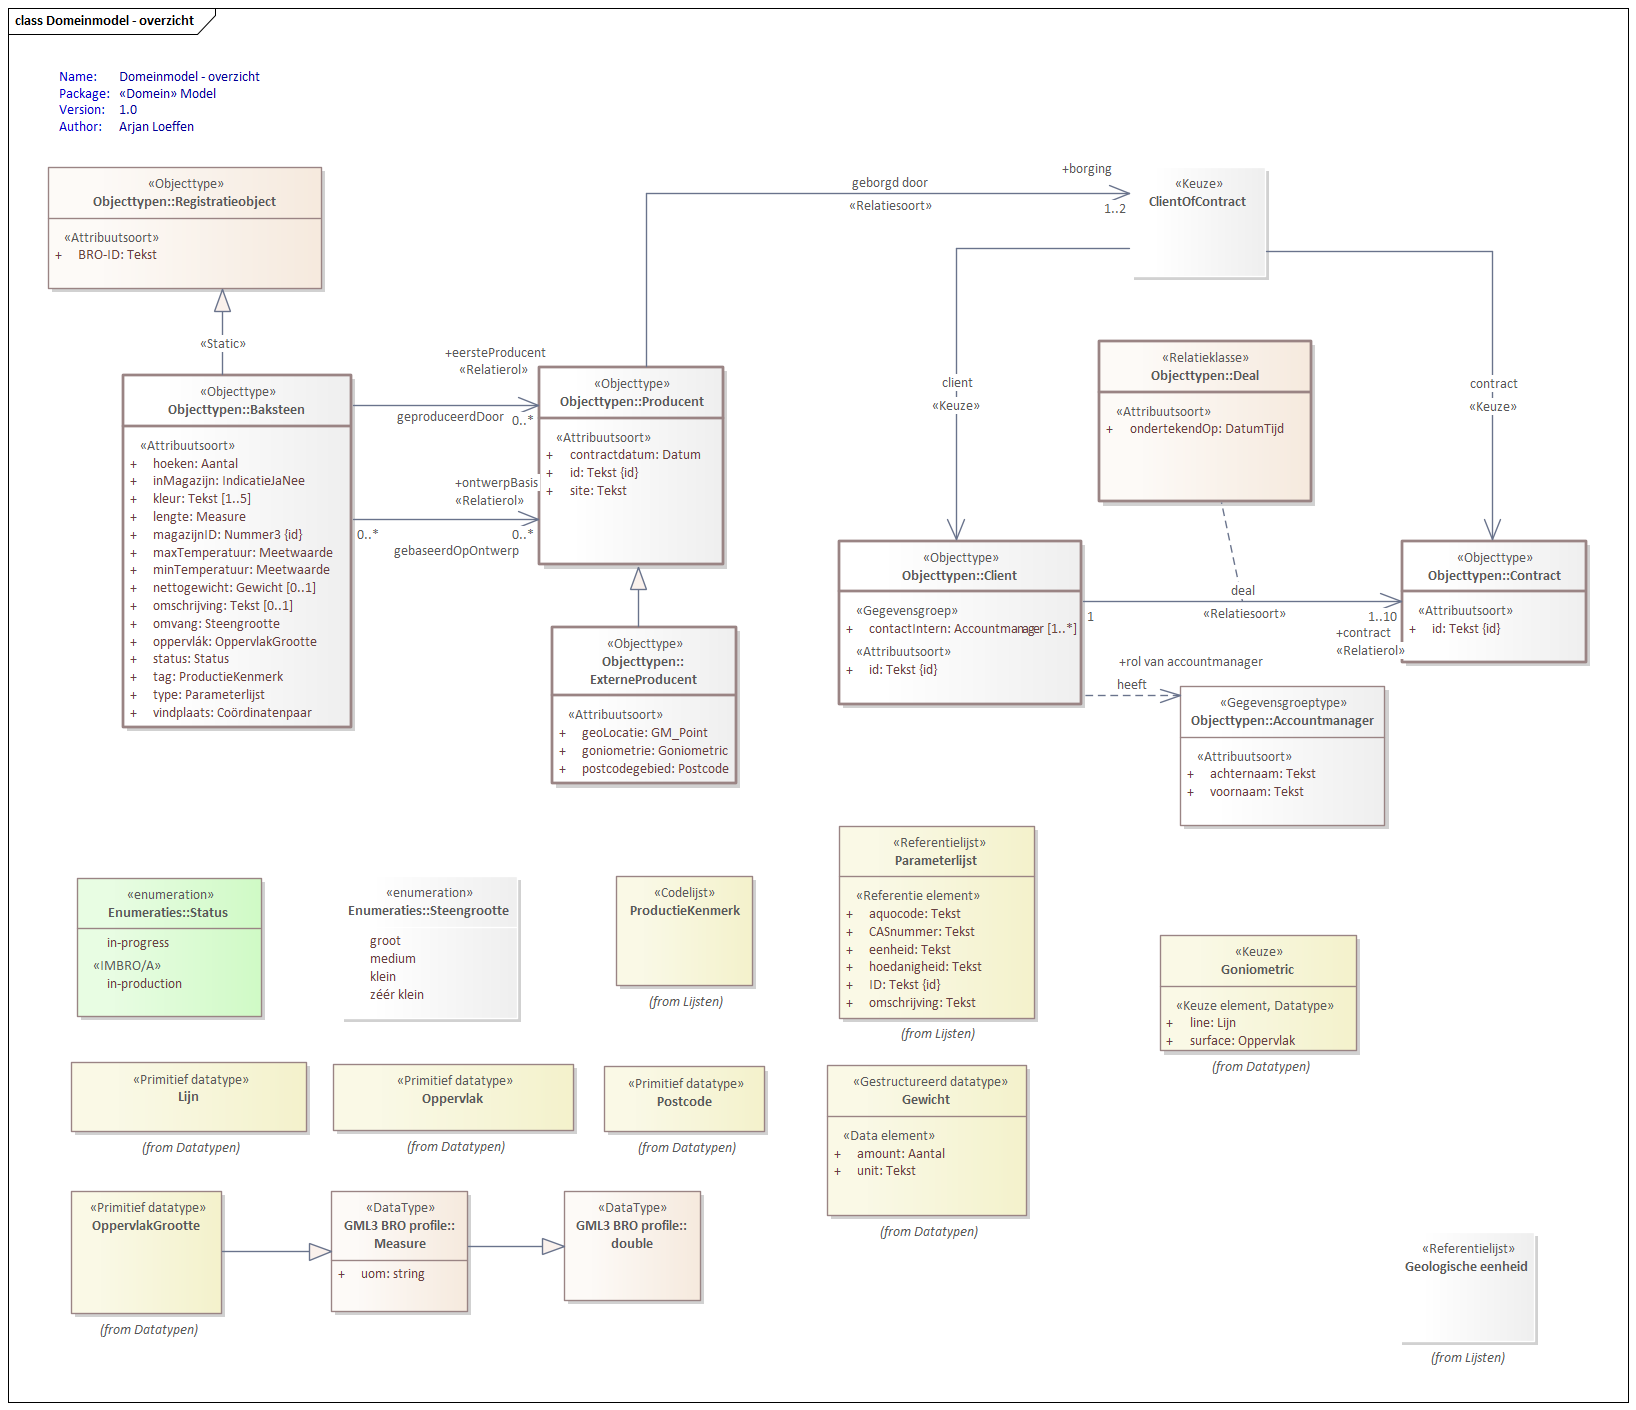
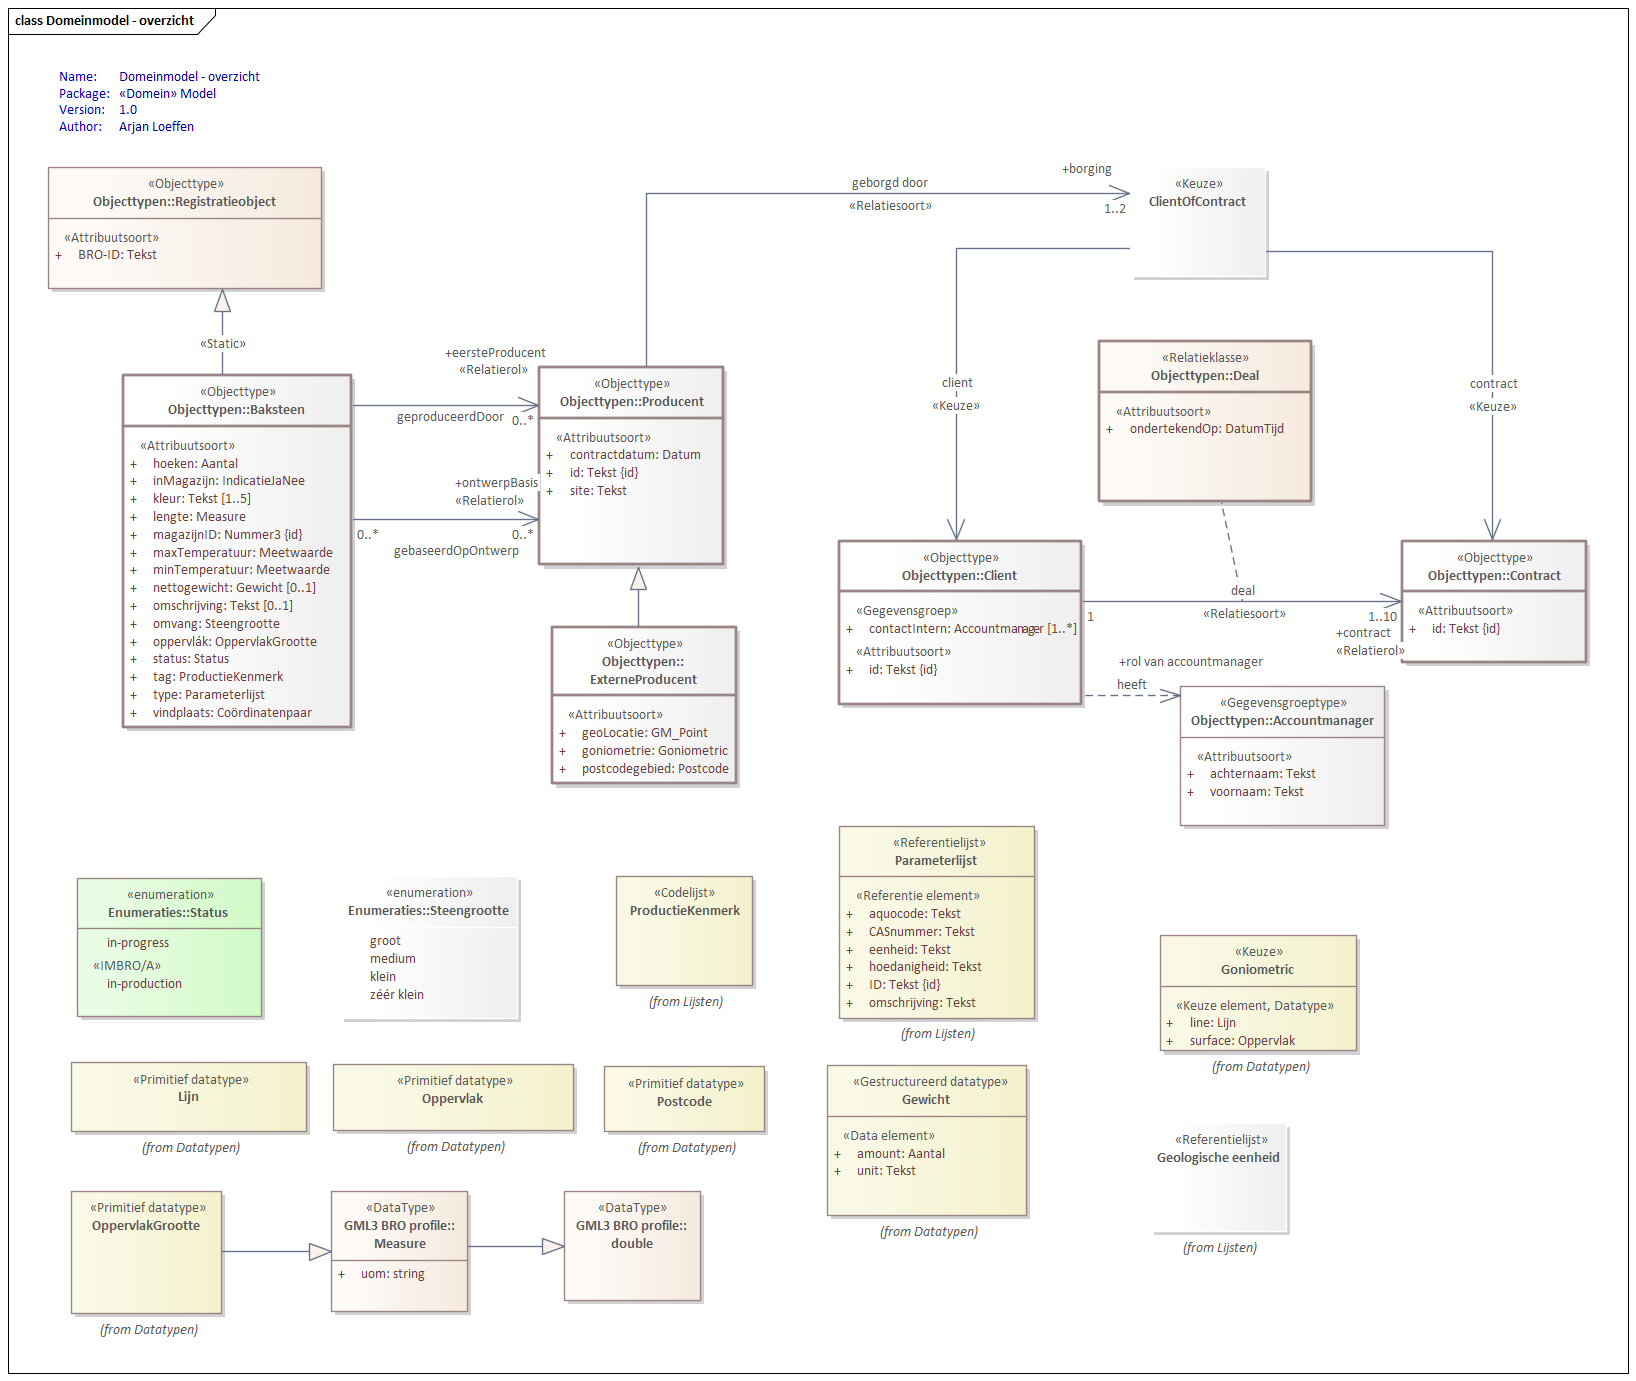
Conceptualmodel-SampleBaseSAMPLE-1.0.0-2-20130319-20221221-100725

diff --git a/data/SAMPLE-cat.msword.html b/data/SAMPLE-cat.msword.html
@@ -15,7 +15,7 @@
    <body>
       <p>Conceptual model/SampleBase (SAMPLE)/20130319</p>
       <p>Imvertor: Nightly-build.2</p>
-      <p>Model release: Conceptualmodel-SampleBaseSAMPLE-1.0.0-2-20130319-20221219-143450</p>
+      <p>Model release: Conceptualmodel-SampleBaseSAMPLE-1.0.0-2-20130319-20221221-100725</p>
       <hr>
       <section>
          <h1>Artikel 1 Definitie van registratieobject, entiteiten en attributen</h1>
@@ -53,7 +53,7 @@
          <section>
             <h2>Het domeinmodel</h2>
             <section id="">
-               <div class="imageinfo overview"><img src="Images/EAID_08513AA0_8A50_46c1_AD86_9B80D9A6AAE1.png" usemap="#imagemap-EAID_08513AA0_8A50_46c1_AD86_9B80D9A6AAE1" alt="Diagram &#xA;                        Overzicht van alle constructies in dit conceptuele model.&#xA;                     "><map name="imagemap-EAID_08513AA0_8A50_46c1_AD86_9B80D9A6AAE1"><area shape="rect" alt="ClientOfContract" coords="1129,167,1266,277" href="#graph_EAID_8A6F167F_244C_4458_B2DB_EB0EE5483A4D"><area shape="rect" alt="ProductieKenmerk" coords="616,876,753,986" href="#graph_EAID_4D78F0AD_88ED_44ef_9A76_163426CD74D1"><area shape="rect" alt="Parameterlijst" coords="839,826,1035,1019" href="#graph_EAID_44AEBC38_4744_431f_B31C_D809E3AA7D52"><area shape="rect" alt="Registratieobject" coords="48,167,322,289" href="#graph_EAID_9E9289AB_19E6_48af_87FD_8BC9E0875C28"><area shape="rect" alt="Steengrootte" coords="340,876,518,1019" href="#graph_EAID_65363897_E229_41fd_BE6F_E6B1BACAD458"><area shape="rect" alt="Accountmanager" coords="1180,686,1385,826" href="#graph_EAID_29D6B892_B943_494c_94C7_A13DB031E998"><area shape="rect" alt="Status" coords="77,878,262,1017" href="#graph_EAID_E86D21EE_58FD_4975_9CCB_AFF2434704A8"><area shape="rect" alt="Goniometric" coords="1160,935,1357,1051" href="#graph_EAID_22DF50AD_91EB_4db3_AA33_D5C2CE2FB906"><area shape="rect" alt="ExterneProducent" coords="552,627,737,784" href="#graph_EAID_E2C93214_90E2_4151_B719_7BB8CDF8679F"><area shape="rect" alt="Baksteen" coords="123,375,352,728" href="#graph_EAID_CF7C4448_E50C_4c7a_B1D0_C4FCB2EB1814"><area shape="rect" alt="Producent" coords="539,367,724,565" href="#graph_EAID_04EED45C_4D30_41b9_83EE_65237E1F8E27"><area shape="rect" alt="Contract" coords="1402,541,1587,663" href="#graph_EAID_77987690_1141_457d_A33B_E1C7AA1EA812"><area shape="rect" alt="Client" coords="839,541,1082,705" href="#graph_EAID_DF955A82_3E49_4c9d_9C0C_74738600FE1B"><area shape="rect" alt="Geologische eenheid" coords="1398,1232,1535,1342" href="#graph_EAID_A029336A_0B37_4896_BCE1_02F3D216073F"></map><p><b>Domeinmodel</b>
+               <div class="imageinfo overview"><img src="Images/EAID_08513AA0_8A50_46c1_AD86_9B80D9A6AAE1.png" usemap="#imagemap-EAID_08513AA0_8A50_46c1_AD86_9B80D9A6AAE1" alt="Diagram &#xA;                        Overzicht van alle constructies in dit conceptuele model.&#xA;                     "><map name="imagemap-EAID_08513AA0_8A50_46c1_AD86_9B80D9A6AAE1"><area shape="rect" alt="Geologische eenheid" coords="1150,1123,1287,1232" href="#graph_EAID_A029336A_0B37_4896_BCE1_02F3D216073F"><area shape="rect" alt="ClientOfContract" coords="1129,167,1266,277" href="#graph_EAID_8A6F167F_244C_4458_B2DB_EB0EE5483A4D"><area shape="rect" alt="ProductieKenmerk" coords="616,876,753,986" href="#graph_EAID_4D78F0AD_88ED_44ef_9A76_163426CD74D1"><area shape="rect" alt="Parameterlijst" coords="839,826,1035,1019" href="#graph_EAID_44AEBC38_4744_431f_B31C_D809E3AA7D52"><area shape="rect" alt="Registratieobject" coords="48,167,322,289" href="#graph_EAID_9E9289AB_19E6_48af_87FD_8BC9E0875C28"><area shape="rect" alt="Steengrootte" coords="340,876,518,1019" href="#graph_EAID_65363897_E229_41fd_BE6F_E6B1BACAD458"><area shape="rect" alt="Accountmanager" coords="1180,686,1385,826" href="#graph_EAID_29D6B892_B943_494c_94C7_A13DB031E998"><area shape="rect" alt="Status" coords="77,878,262,1017" href="#graph_EAID_E86D21EE_58FD_4975_9CCB_AFF2434704A8"><area shape="rect" alt="Goniometric" coords="1160,935,1357,1051" href="#graph_EAID_22DF50AD_91EB_4db3_AA33_D5C2CE2FB906"><area shape="rect" alt="ExterneProducent" coords="552,627,737,784" href="#graph_EAID_E2C93214_90E2_4151_B719_7BB8CDF8679F"><area shape="rect" alt="Baksteen" coords="123,375,352,728" href="#graph_EAID_CF7C4448_E50C_4c7a_B1D0_C4FCB2EB1814"><area shape="rect" alt="Producent" coords="539,367,724,565" href="#graph_EAID_04EED45C_4D30_41b9_83EE_65237E1F8E27"><area shape="rect" alt="Contract" coords="1402,541,1587,663" href="#graph_EAID_77987690_1141_457d_A33B_E1C7AA1EA812"><area shape="rect" alt="Client" coords="839,541,1082,705" href="#graph_EAID_DF955A82_3E49_4c9d_9C0C_74738600FE1B"></map><p><b>Domeinmodel</b>
                      
                      <p>Overzicht van alle constructies in dit conceptuele model.</p>
                      </p>

diff --git a/data/SAMPLE-cat.respec.html b/data/SAMPLE-cat.respec.html
@@ -31,7 +31,7 @@
       </section>
    <section id="">
       <h2>Het domeinmodel   </h2>
-      <div class="imageinfo overview"><img src="data/Images/EAID_08513AA0_8A50_46c1_AD86_9B80D9A6AAE1.png" usemap="#imagemap-EAID_08513AA0_8A50_46c1_AD86_9B80D9A6AAE1" alt="Diagram &#xA;                        Overzicht van alle constructies in dit conceptuele model.&#xA;                     "><map name="imagemap-EAID_08513AA0_8A50_46c1_AD86_9B80D9A6AAE1"><area shape="rect" alt="ClientOfContract" coords="1129,167,1266,277" href="#graph_EAID_8A6F167F_244C_4458_B2DB_EB0EE5483A4D"><area shape="rect" alt="ProductieKenmerk" coords="616,876,753,986" href="#graph_EAID_4D78F0AD_88ED_44ef_9A76_163426CD74D1"><area shape="rect" alt="Parameterlijst" coords="839,826,1035,1019" href="#graph_EAID_44AEBC38_4744_431f_B31C_D809E3AA7D52"><area shape="rect" alt="Registratieobject" coords="48,167,322,289" href="#graph_EAID_9E9289AB_19E6_48af_87FD_8BC9E0875C28"><area shape="rect" alt="Steengrootte" coords="340,876,518,1019" href="#graph_EAID_65363897_E229_41fd_BE6F_E6B1BACAD458"><area shape="rect" alt="Accountmanager" coords="1180,686,1385,826" href="#graph_EAID_29D6B892_B943_494c_94C7_A13DB031E998"><area shape="rect" alt="Status" coords="77,878,262,1017" href="#graph_EAID_E86D21EE_58FD_4975_9CCB_AFF2434704A8"><area shape="rect" alt="Goniometric" coords="1160,935,1357,1051" href="#graph_EAID_22DF50AD_91EB_4db3_AA33_D5C2CE2FB906"><area shape="rect" alt="ExterneProducent" coords="552,627,737,784" href="#graph_EAID_E2C93214_90E2_4151_B719_7BB8CDF8679F"><area shape="rect" alt="Baksteen" coords="123,375,352,728" href="#graph_EAID_CF7C4448_E50C_4c7a_B1D0_C4FCB2EB1814"><area shape="rect" alt="Producent" coords="539,367,724,565" href="#graph_EAID_04EED45C_4D30_41b9_83EE_65237E1F8E27"><area shape="rect" alt="Contract" coords="1402,541,1587,663" href="#graph_EAID_77987690_1141_457d_A33B_E1C7AA1EA812"><area shape="rect" alt="Client" coords="839,541,1082,705" href="#graph_EAID_DF955A82_3E49_4c9d_9C0C_74738600FE1B"><area shape="rect" alt="Geologische eenheid" coords="1398,1232,1535,1342" href="#graph_EAID_A029336A_0B37_4896_BCE1_02F3D216073F"></map><p><b>Domeinmodel</b>
+      <div class="imageinfo overview"><img src="data/Images/EAID_08513AA0_8A50_46c1_AD86_9B80D9A6AAE1.png" usemap="#imagemap-EAID_08513AA0_8A50_46c1_AD86_9B80D9A6AAE1" alt="Diagram &#xA;                        Overzicht van alle constructies in dit conceptuele model.&#xA;                     "><map name="imagemap-EAID_08513AA0_8A50_46c1_AD86_9B80D9A6AAE1"><area shape="rect" alt="Geologische eenheid" coords="1150,1123,1287,1232" href="#graph_EAID_A029336A_0B37_4896_BCE1_02F3D216073F"><area shape="rect" alt="ClientOfContract" coords="1129,167,1266,277" href="#graph_EAID_8A6F167F_244C_4458_B2DB_EB0EE5483A4D"><area shape="rect" alt="ProductieKenmerk" coords="616,876,753,986" href="#graph_EAID_4D78F0AD_88ED_44ef_9A76_163426CD74D1"><area shape="rect" alt="Parameterlijst" coords="839,826,1035,1019" href="#graph_EAID_44AEBC38_4744_431f_B31C_D809E3AA7D52"><area shape="rect" alt="Registratieobject" coords="48,167,322,289" href="#graph_EAID_9E9289AB_19E6_48af_87FD_8BC9E0875C28"><area shape="rect" alt="Steengrootte" coords="340,876,518,1019" href="#graph_EAID_65363897_E229_41fd_BE6F_E6B1BACAD458"><area shape="rect" alt="Accountmanager" coords="1180,686,1385,826" href="#graph_EAID_29D6B892_B943_494c_94C7_A13DB031E998"><area shape="rect" alt="Status" coords="77,878,262,1017" href="#graph_EAID_E86D21EE_58FD_4975_9CCB_AFF2434704A8"><area shape="rect" alt="Goniometric" coords="1160,935,1357,1051" href="#graph_EAID_22DF50AD_91EB_4db3_AA33_D5C2CE2FB906"><area shape="rect" alt="ExterneProducent" coords="552,627,737,784" href="#graph_EAID_E2C93214_90E2_4151_B719_7BB8CDF8679F"><area shape="rect" alt="Baksteen" coords="123,375,352,728" href="#graph_EAID_CF7C4448_E50C_4c7a_B1D0_C4FCB2EB1814"><area shape="rect" alt="Producent" coords="539,367,724,565" href="#graph_EAID_04EED45C_4D30_41b9_83EE_65237E1F8E27"><area shape="rect" alt="Contract" coords="1402,541,1587,663" href="#graph_EAID_77987690_1141_457d_A33B_E1C7AA1EA812"><area shape="rect" alt="Client" coords="839,541,1082,705" href="#graph_EAID_DF955A82_3E49_4c9d_9C0C_74738600FE1B"></map><p><b>Domeinmodel</b>
             
             <p>Overzicht van alle constructies in dit conceptuele model.</p>
             </p>
